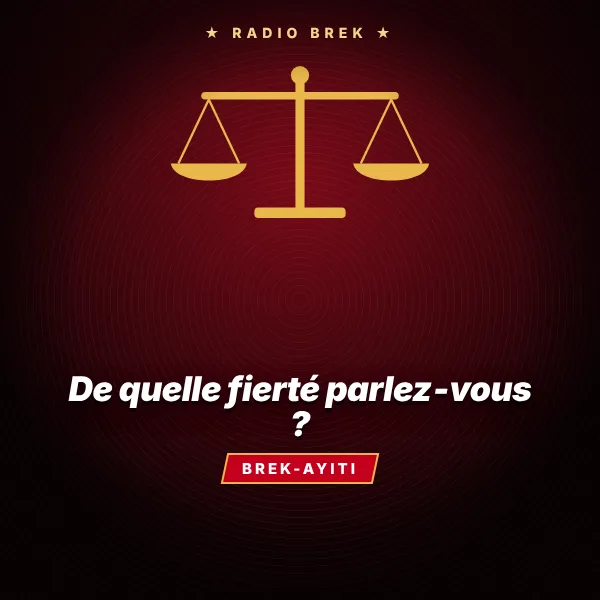
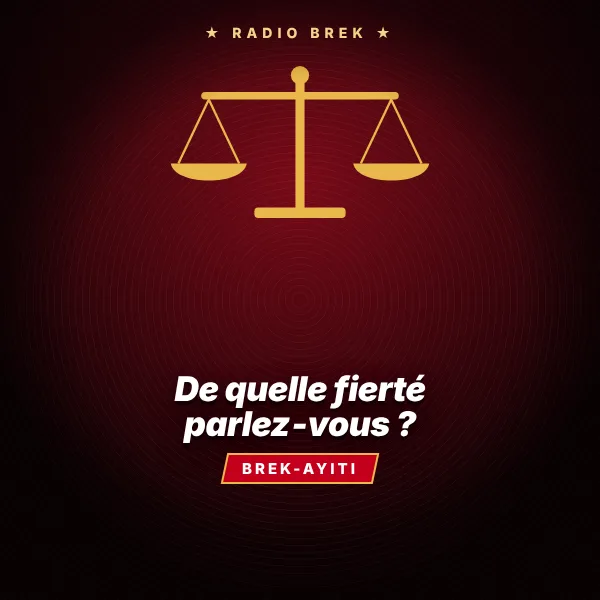
Radio : pochette « De quelle fierté parlez-vous ? » ajustée [sans-notif]
Claude-Session: https://claude.ai/code/session_014wWkmDoBwzkPw89hR5ZUE1

Changed region(s): [[0.12, 0.6, 0.9, 0.75]]

diff --git a/radio/index.html b/radio/index.html
@@ -151,7 +151,7 @@ const G=[ // grille : [heure début, heure fin, nom, description]
 // Bulletins du jour : date (heure d'Haïti) -> {heure: seconde de diffusion dans l'heure}
 const MUS=['qf','q5','q4','q3','q2','q1','bg','mp','nf','em','le','rr','jl','kl','nk','am','sn','np','mw','lm','sy','bc','pa','k1','k2','k3','k4','in','sj','ms','uf','n2','gk','mf','ak','hy','we','yt','ap','so','cp','dn','hp','hj'];
 function lab(k){return MUS.includes(k)?{t:I[k].t,s:'Radio BREK · La voix de la Révolution Classique'}:I[k]}
-function cov(k){if(k==='hy')return'/radio/pochette.jpg';if(k==='ov')return'/radio/disques/ov.webp';if(k==='nt')return'/radio/disques/nt.webp';if(/^l[0-6]$/.test(k))return'/radio/disques/ln.webp';if(/^k[1-4]$/.test(k)||k==='sk'||k==='s2'||k==='q1'||k==='q2'||k==='q3'||k==='q4'||k==='q5'||k==='jk')return'/radio/disques/kp.webp';if(MUS.includes(k))return'/radio/disques/'+k+'.webp';if(['fl','es','er','mj','mt','ec','it','sm','jm','sa','is'].includes(k))return'/radio/disques/info.webp';return'/radio/disques/radio.webp'}
+function cov(k){if(k==='hy')return'/radio/pochette.jpg';if(k==='ov')return'/radio/disques/ov.webp';if(k==='nt')return'/radio/disques/nt.webp';if(/^l[0-6]$/.test(k))return'/radio/disques/ln.webp';if(/^k[1-4]$/.test(k)||k==='sk'||k==='s2'||k==='q1'||k==='q2'||k==='q3'||k==='q4'||k==='q5'||k==='jk')return'/radio/disques/kp.webp';if(MUS.includes(k))return'/radio/disques/'+k+'.webp?v=2';if(['fl','es','er','mj','mt','ec','it','sm','jm','sa','is'].includes(k))return'/radio/disques/info.webp';return'/radio/disques/radio.webp'}
 let curCov='';function setCov(k){const c=cov(k);if(c!==curCov){curCov=c;disc.querySelector('img').src=c}}
 // OUVERTURE : « Près de toi, Elohim » chaque jour à 5 h 30
 const OUV={k:'ov',slots:{5:1800}};
